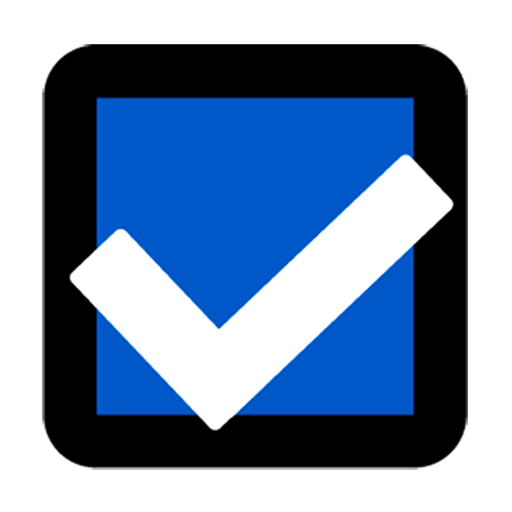
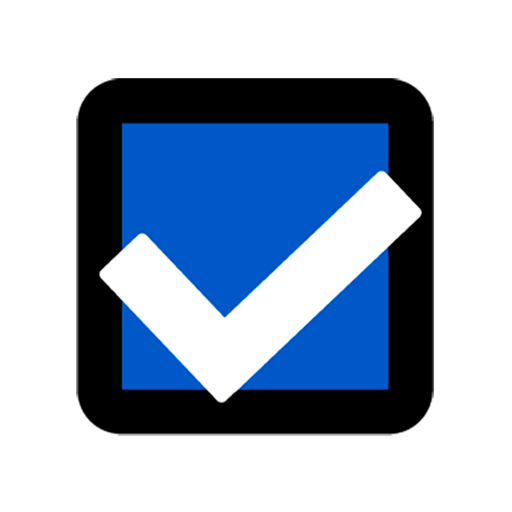
mejoro la ui y fix los radio button

diff --git a/src/components/Form/Form.jsx b/src/components/Form/Form.jsx
@@ -32,7 +32,7 @@ const Form = (task) => {
     if (e.target.value.trim() !== "") {
       setError("");
     }
-    }
+  }
 
   const handleDescripcion = (e) => {
     setDescripcion(e.target.value)
@@ -45,52 +45,56 @@ const Form = (task) => {
 
   return (
     <section className={styles.containerForm}>
-      <h2>Agregar tarea nueva:</h2>
+      <h2>Agregar tarea nueva</h2>
       <form onSubmit={handleSubmit}>
 
-<div className={styles.general}>
-        <div className={styles.info}>
-          <div>
-            <label htmlFor="title">Nombre de la tarea:</label>
-            <input type="text"
-              placeholder="Escribe el nombre de la tarea"
-              onChange={(e) => handleTitle(e)}
-              value={title} />
+        <div className={styles.general}>
+          <div className={styles.info}>
+            <div>
+              <label htmlFor="title">Nombre de la tarea:</label>
+              <input type="text"
+                placeholder="Escribe el nombre de la tarea"
+                onChange={(e) => handleTitle(e)}
+                value={title} />
               {error && <span className={styles.errorTitle}>{error}</span>}
+            </div>
+            <div>
+              <label htmlFor="title">Descripción de la tarea:</label>
+              <textarea
+                name="descripcion"
+                id=""
+                placeholder="Describe la tarea"
+                onChange={(e) => handleDescripcion(e)}
+                value={descripcion}
+              />
+            </div>
           </div>
-          <div>
-            <label htmlFor="title">Descripción de la tarea:</label>
-            <textarea
-              name="descripcion"
-              id=""
-              placeholder="Describe la tarea"
-              onChange={(e) => handleDescripcion(e)}
-              value={descripcion}
-            />
+          <div className={styles.completada}>
+            <p>¿Está completada?</p>
+            <label>
+              <input
+                type="radio"
+                name="estaCompletada"
+                value="true"
+                onChange={handleEstaCompletada}
+                checked={estaCompletada === true}
+              />
+              Si
+            </label>
+            <label>
+              <input
+                type="radio"
+                name="estaCompletada"
+                value="false"
+                onChange={handleEstaCompletada}
+                checked={estaCompletada === false}
+              />
+              No
+            </label>
           </div>
         </div>
-        <div className={styles.completada}>
-          <p>¿Está completada?</p>
-          <label>
-            <input type="radio"
-              name="opcion"
-              defaultValue="si"
-              onChange={(e) => handleEstaCompletada(e)}
-              checked={estaCompletada === true} />
-            Si
-          </label>
-          <label>
-            <input type="radio"
-              name="opcion"
-              defaultValue="no"
-              onChange={(e) => handleEstaCompletada(e)}
-              checked={estaCompletada === false} />
-            No
-          </label>
-        </div>
-</div>
-<div>
-        <button type="submit">Agregar tarea</button>
+        <div>
+          <button type="submit">Agregar tarea</button>
         </div>
       </form>
     </section>

diff --git a/src/components/Form/Form.module.scss b/src/components/Form/Form.module.scss
@@ -13,7 +13,7 @@
     margin: 16px auto;
 
     h2 {
-        font-size: 14px;
+        font-size: 18px;
         font-weight: 700;
         color: var(--color-primary);
     }
@@ -37,7 +37,7 @@
 
             input,
             textarea {
-                min-height: 32px;
+                min-height: 36px;
                 border-radius: 8px;
                 padding: 4px 8px;
                 width: 100%;
@@ -85,10 +85,10 @@
             background-color: var(--color-primary);
             color: var(--color-bg);
             font-weight: 500;
-            padding: 8px;
+                padding: 4px 8px 6px;
             border-radius: 8px;
             border: none;
-            font-size: 12px;
+            font-size: 16px;
 
             &:hover {
                 background-color: var(--color-secondary);
@@ -100,6 +100,10 @@
             justify-content: space-between;
             gap: 16px;
             width: 100%;
+
+            label {
+                font-size: 14px;
+            }
 
             input {
                 margin-right: 8px;
@@ -146,7 +150,6 @@
 
                 input,
                 textarea {
-                    height: 32px;
                     border-radius: 8px;
                     padding: 4px 8px;
                     width: 500px;

diff --git a/src/components/ContenedorTareas/ContenedorTareas.module.scss b/src/components/ContenedorTareas/ContenedorTareas.module.scss
@@ -11,7 +11,7 @@
     }
 
     h2 {
-        font-size: 16px;
+        font-size: 18px;
         color: var(--color-text-general);
     }
 

diff --git a/src/components/Navbar/Navbar.module.scss b/src/components/Navbar/Navbar.module.scss
@@ -19,7 +19,7 @@
     }
 
     input {
-        height: 32px;
+        height: 36px;
         border-radius: 8px;
         padding: 4px 8px;
         width: 100%;

diff --git a/src/components/Tarea/Tarea.module.scss b/src/components/Tarea/Tarea.module.scss
@@ -24,7 +24,7 @@
 
         p {
             color: var(--color-text-general);
-            font-size: 14px;
+            font-size: 16px;
                 padding: 0px 0px 8px 8px;
     margin-top: -8px;
         }

diff --git a/src/styles/_variables.scss b/src/styles/_variables.scss
@@ -10,6 +10,6 @@
     --color-secondary: #052657;
     --color-text-general: #000000;
         --color-text-secondary: #504f4f;
-    --color-bg: #ecf4ff;
+    --color-bg: #f6f8fb;
     --color-error: #fd0000;
 }